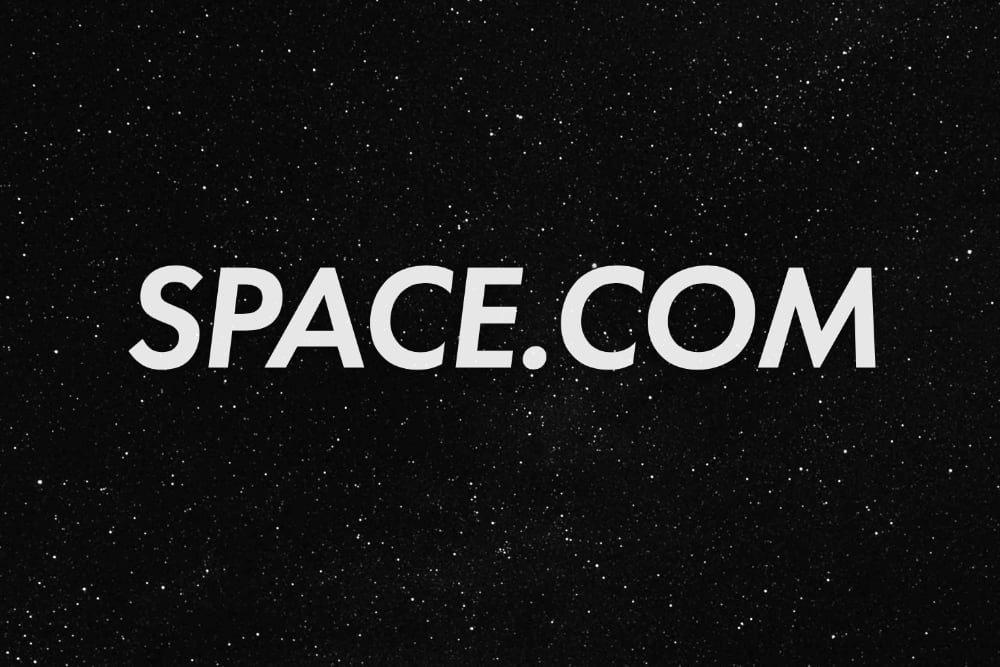
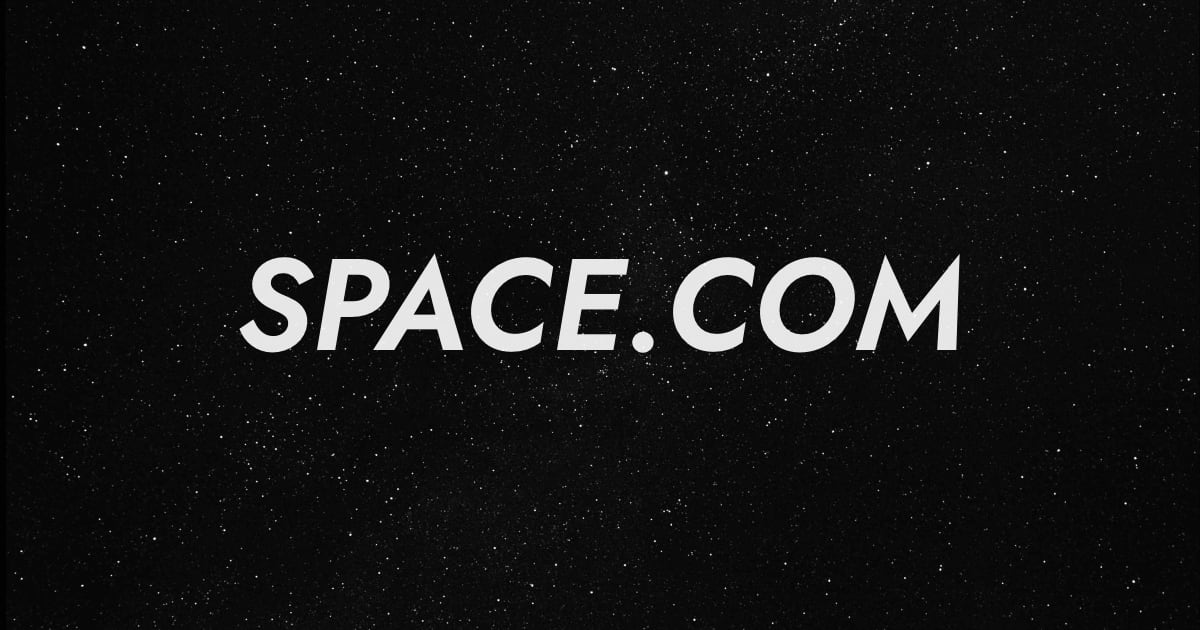
Change font to Jost
Remove TypeKit dependency

diff --git a/main.css b/main.css
@@ -1,3 +1,19 @@
+@font-face {
+	font-family: 'Jost';
+	font-style: italic;
+	font-weight: 600;
+	font-display: block;
+	src: url("fonts/jost-italic.woff") format("woff");
+}
+
+@font-face {
+	font-family: 'Jost';
+	font-style: normal;
+	font-weight: 500;
+	font-display: block;
+	src: url("fonts/jost.woff") format("woff");
+}
+
 body {
 	background-attachment: fixed;
 	background-color: #000;
@@ -5,7 +21,7 @@ body {
 	background-position: center center;
 	background-repeat: no-repeat;
 	background-size: cover;
-	font-family: "futura-pt", "Futura-Medium", "Futura", "Futura Std", system-ui, -apple-system, BlinkMacSystemFont, "Segoe UI", "Roboto", "Helvetica Neue", Arial, sans-serif;
+	font-family: "Jost", system-ui, -apple-system, BlinkMacSystemFont, "Segoe UI", "Roboto", "Helvetica Neue", Arial, sans-serif;
 	color: rgba(255, 255, 255, 0.9);
 	text-shadow: 0 0 10px rgba(0, 0, 0, 0.5);
 	margin: 0;
@@ -14,10 +30,11 @@ body {
 }
 
 h1 {
-	font-size: 15vmin;
+	font-size: 14vmin;
 	font-weight: 600;
 	font-style: italic;
-	letter-spacing: -3px;
+	letter-spacing: -2px;
+	line-height: 1.2;
 	margin: 25vh 0 0 0;
 }
 
@@ -29,10 +46,11 @@ footer {
 	position: fixed;
 	bottom: 0;
 	right: 0;
+	font-weight: 500;
 }
 
 footer p {
 	margin: 0.5rem;
 	padding: 0;
-	font-size: 0.75rem;
+	font-size: 0.7rem;
 }

diff --git a/index.html b/index.html
@@ -3,8 +3,7 @@
 <head>
 	<meta charset="utf-8">
 	<meta name="viewport" content="initial-scale=1.0,width=device-width,viewport-fit=cover">
-	<meta http-equiv="Content-Security-Policy" content="default-src 'self'; style-src 'self' use.typekit.net p.typekit.net; font-src use.typekit.net; upgrade-insecure-requests">
-	<link rel="stylesheet" href="https://use.typekit.net/bwv8hof.css">
+	<meta http-equiv="Content-Security-Policy" content="default-src 'none'; style-src 'self'; img-src 'self'; font-src 'self'">
 	<link rel="stylesheet" href="main.css">
 	<meta name="author" content="Brad Dougherty">
 	<title>SPACE.COM</title>
